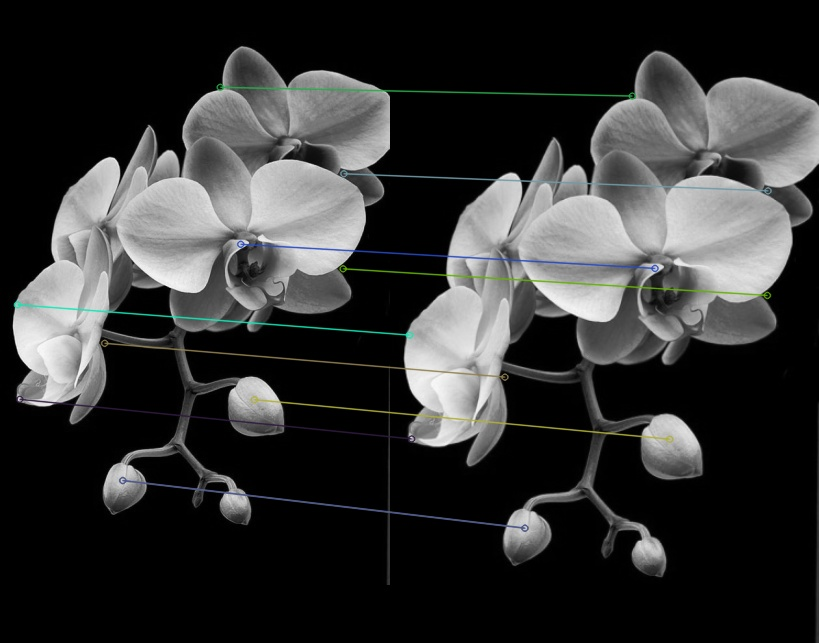
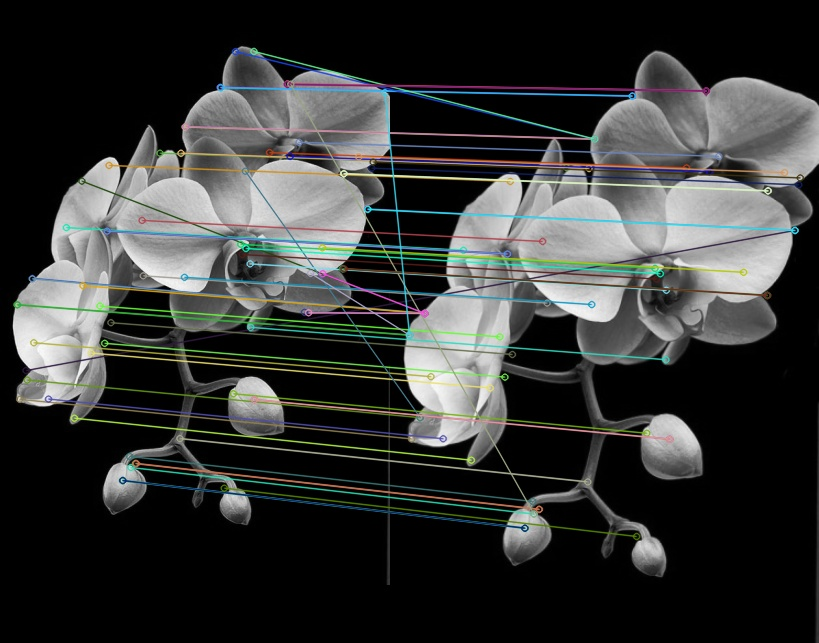
followed tutorial, done

Changed region(s): [[0.0, 0.0933, 0.9768, 0.8398], [0.2747, 0.0622, 0.3358, 0.0933], [0.0305, 0.4044, 0.0611, 0.4355]]

diff --git a/lab2/templateTask2.py b/lab2/templateTask2.py
@@ -74,19 +74,30 @@ if __name__ == '__main__':
     # * https://opencv-python-tutroals.readthedocs.io/en/latest/py_tutorials/py_feature2d/py_matcher/py_matcher.html
     # * https://docs.opencv.org/3.4/d3/da1/classcv_1_1BFMatcher.html#ac6418c6f87e0e12a88979ea57980c020
 
-    bf = cv2.BFMatcher(cv2.NORM_L1, crossCheck=False)
+    bf = cv2.BFMatcher(cv2.NORM_L2, crossCheck=False)
     # * Match descriptors.
-    matches = bf.match(des1,des2)
+    #matches = bf.match(des1,des2)
     # * Sort them in the order of their distance.
-    matches = sorted(matches, key = lambda x:x.distance)
-
+    #matches = sorted(matches, key = lambda x:x.distance)
     # * Draw first 10 matches.
-    kp3_img = cv2.drawMatches(img1,kp1,img2,kp2,matches[:10], None, flags=2)
+    #kp3_img = cv2.drawMatches(img1,kp1,img2,kp2,matches[:10], None, flags=2)
+    
+    matches = bf.knnMatch(des1,des2, k=2)   # k=2 for ratio test
+    # Apply ratio test
+    good = []
+    for m,n in matches:
+        if m.distance < 0.75*n.distance:
+            good.append([m])
+    # cv2.drawMatchesKnn expects list of lists as matches.
+    kp3_img = cv2.drawMatchesKnn(img1,kp1,img2,kp2,good,None,flags=2)
+    
     cv2.imwrite('task2c_result.jpg', kp3_img)
 
     # visual inspection
-    print("Task 2d: Results look the same. Suggests that SIFT can handle scaling, or at least for examples "
-          "like this one where the scaling is evenly applied to both directions.")
+    print("Task 2d: Many of the results look the same, though maybe the result could be "
+          "improved by tweaking the ratio test. There are a few errors as not all lines are parallel. "
+          "Suggests that SIFT can handle scaling, or at least for cases where the scaling "
+          "is evenly applied in both directions.")
 
     # Store SIFT keypoints of original image in a Numpy array
     #kp = sd.detector.detect(img,None)

diff --git a/lab2/templateTask3.py b/lab2/templateTask3.py
@@ -117,13 +117,18 @@ if __name__ == '__main__':
                                               kp2_new_len/kp1_default_len*100))
 
     # BFMatcher with default params
-    bf = cv2.BFMatcher(cv2.NORM_L1, crossCheck=False)
-    matches = bf.match(des1,des2)
-    matches = sorted(matches, key = lambda x:x.distance)
+    bf = cv2.BFMatcher(cv2.NORM_L2, crossCheck=False)
+    matches = bf.knnMatch(des1,des2, k=2)   # k=2 for ratio test
 
     # Apply ratio test
-    kp3_img = cv2.drawMatches(img1,kp1,img2,kp2,matches[:10], None, flags=2)
+    good = []
+    for m,n in matches:
+        if m.distance < 0.75*n.distance:
+            good.append([m])
+    # cv2.drawMatchesKnn to draw matches
+    # cv2.drawMatchesKnn expects list of lists as matches.
+    kp3_img = cv2.drawMatchesKnn(img1,kp1,img2,kp2,good,None,flags=2)
     cv2.imwrite('task3c_result.jpg', kp3_img)
 
-    # cv2.drawMatchesKnn to draw matches
+
         
